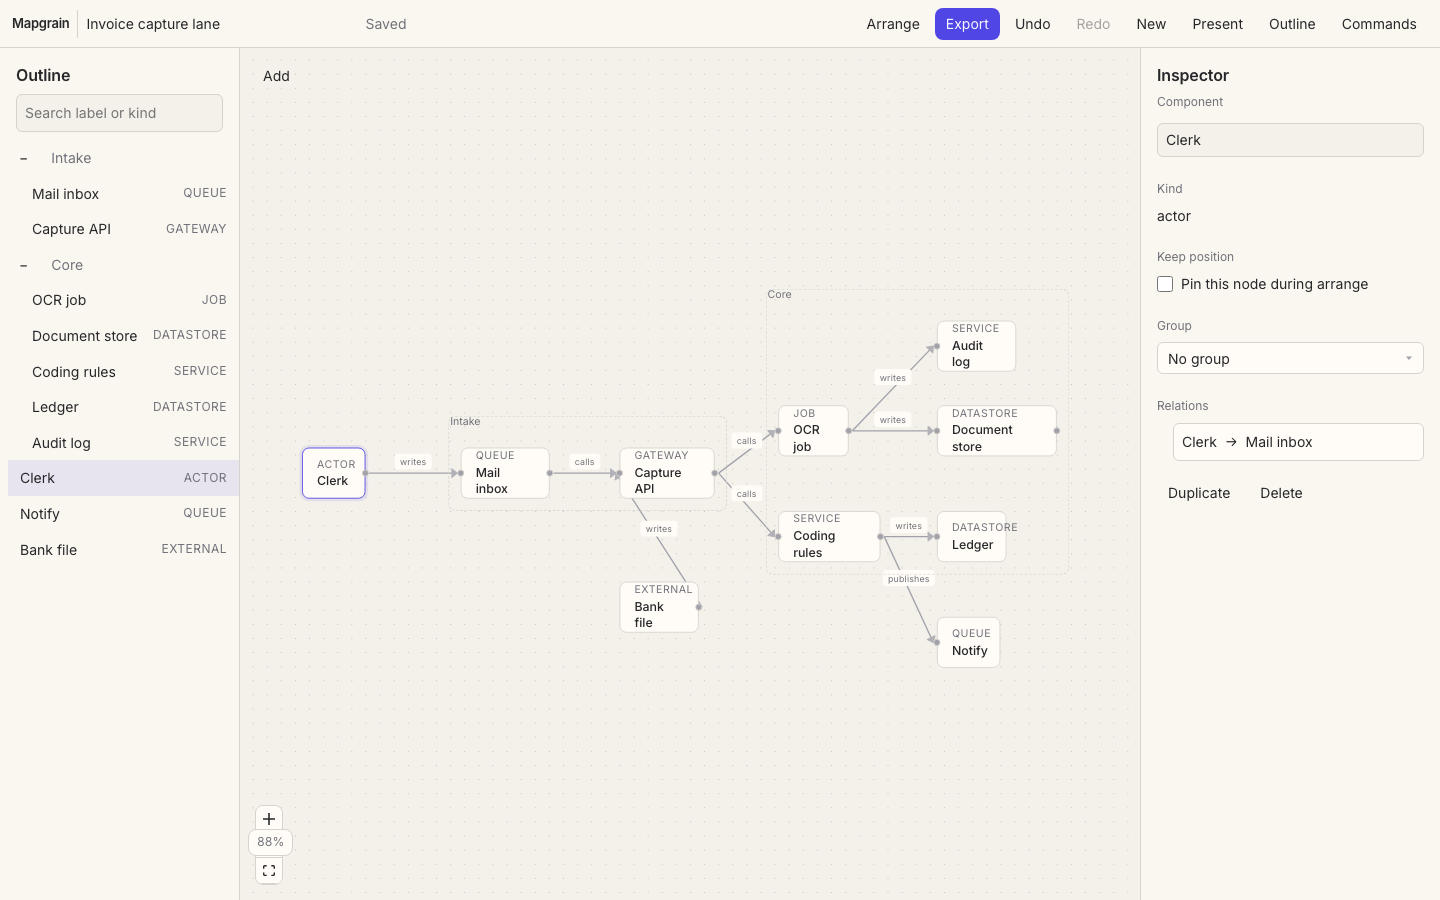
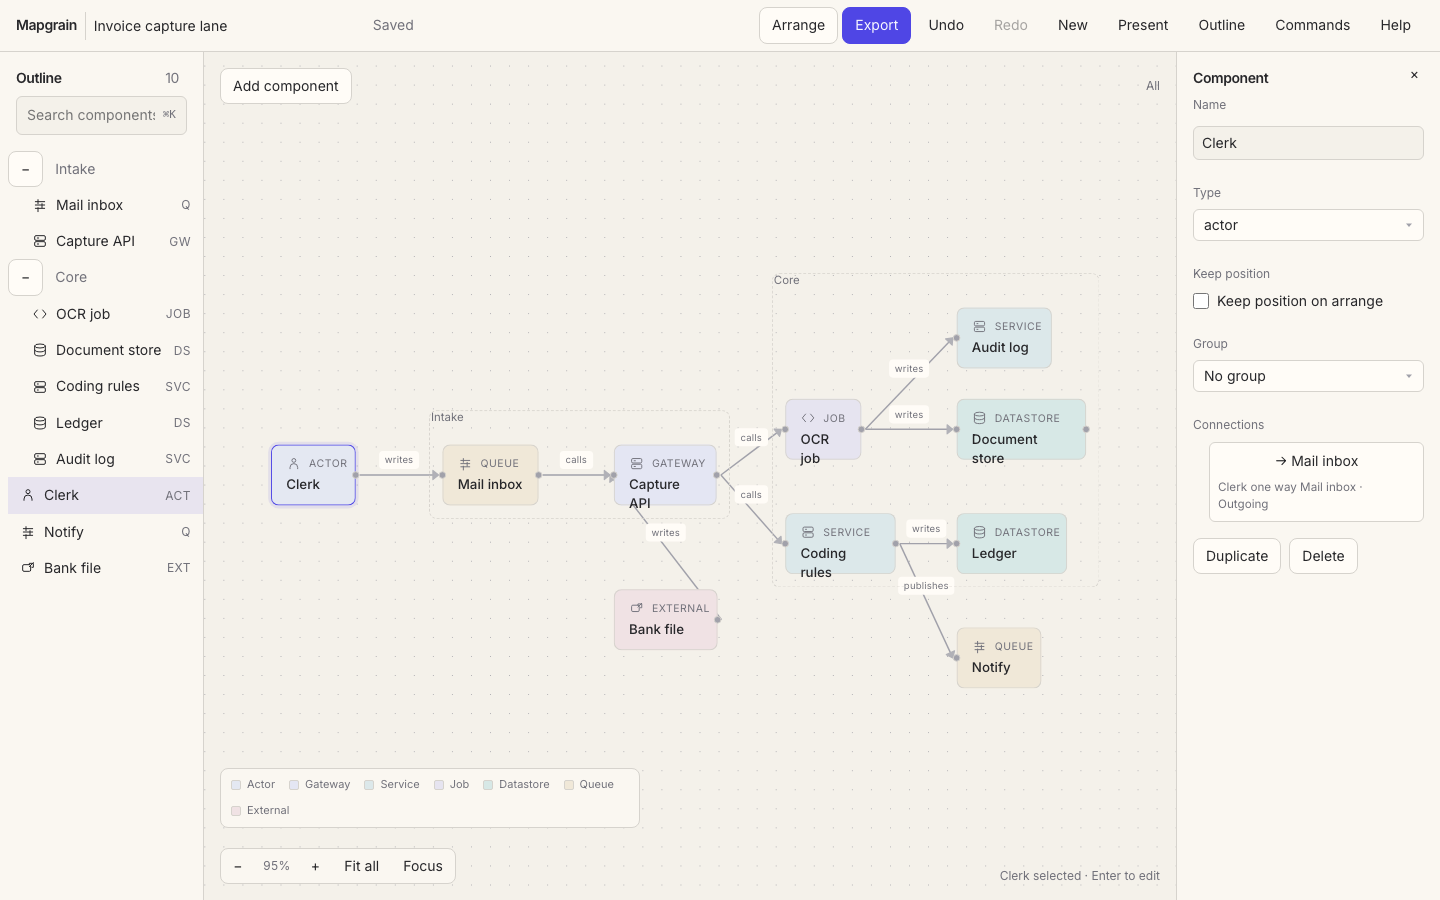
docs: recapture README media from current production (#87)
Stills and gifs show kind fills, Help, and Fit all. CLI receipts label
npx mapgrain@0.2.1 instead of 0.1.0.

diff --git a/apps/editor/tests/capture-media.ts b/apps/editor/tests/capture-media.ts
@@ -239,6 +239,7 @@ async function main(): Promise<void> {
     const hit = viewPage.getByRole("list", { name: "Search results" }).getByRole("button").first();
     if (await hit.isVisible().catch(() => false)) await hit.click();
     await viewPage.waitForTimeout(400);
+    await viewPage.getByRole("button", { name: "More" }).click();
     await viewPage.getByRole("button", { name: "Theme" }).click();
     await viewPage.waitForTimeout(400);
     await viewPage.mouse.move(720, 480);
@@ -264,6 +265,7 @@ async function main(): Promise<void> {
     const cliVideoDir = join(work, "cli");
     await mkdir(cliVideoDir, { recursive: true });
     const receipts = join(work, "receipts.html");
+    const cliVersion = await packageVersion();
     const validated = execFileSync(
       "node",
       ["--experimental-strip-types", join(repoRoot, "packages/cli/src/cli.ts"), "validate", fixture],
@@ -287,7 +289,7 @@ async function main(): Promise<void> {
 <style>body{margin:0;background:#1c1c1f;color:#ececec;font:14px/1.45 ui-monospace,SFMono-Regular,Menlo,monospace}
 main{padding:32px 40px} h1{font:600 16px/1.3 ui-sans-serif,system-ui;margin:0 0 16px}
 pre{white-space:pre-wrap;background:#141416;border:1px solid #2a2a2e;padding:16px;border-radius:8px}</style></head>
-<body><main><h1>npx mapgrain@0.1.0 validate / layout</h1>
+<body><main><h1>npx mapgrain@${cliVersion} validate / layout</h1>
 <pre>${validated.replaceAll("<", "&lt;")}\n\nlayout wrote laid.json</pre></main></body></html>`,
     );
     const receiptServer = await listen(work);

diff --git a/tests/media.test.ts b/tests/media.test.ts
@@ -31,9 +31,12 @@ test("capture manifest records commit, fixture, viewport, and theme", async () =
     commit?: string;
     fixture?: string;
     buildCommand?: string;
+    package?: { name?: string; version?: string };
     artifacts?: Array<{ file: string; viewport?: { width: number; height: number }; theme?: string }>;
   };
   assert.match(manifest.commit ?? "", /^[0-9a-f]{40}$/);
+  assert.equal(manifest.package?.name, "mapgrain");
+  assert.equal(manifest.package?.version, "0.2.1");
   assert.equal(manifest.fixture, "skills/mapgrain/examples/ten-node.json");
   assert.match(manifest.buildCommand ?? "", /@mapgrain\/editor build/);
   const files = new Set((manifest.artifacts ?? []).map((item) => item.file));
@@ -63,4 +66,10 @@ test("README links production media, the feature table, and getting-started", as
   }
   assert.doesNotMatch(readme, /universal agent/i);
   assert.doesNotMatch(readme, /perfect quality/i);
+});
+
+test("capture script labels CLI receipts with the source package version", async () => {
+  const source = await text("../apps/editor/tests/capture-media.ts");
+  assert.match(source, /npx mapgrain@\$\{cliVersion\}/);
+  assert.doesNotMatch(source, /npx mapgrain@0\.1\.0 validate/);
 });

diff --git a/docs/PLAN.md b/docs/PLAN.md
@@ -2,13 +2,12 @@
 
 Mapgrain is a local editor, CLI (`npx mapgrain@0.2.1`), and agent skill. Users make a diagram by hand or through an agent, save JSON, and export SVG/PNG/HTML. No account.
 
-**Status:** shipped through F060. No live slices. Next task id: `F061`. Closed slices: [docs/archive/](archive/). Product facts: [PROJECT.md](PROJECT.md), [FEATURES.md](FEATURES.md), [CAPABILITY.md](CAPABILITY.md).
+**Status:** shipped through F060. Live: F061 README media recapture. Closed slices: [docs/archive/](archive/). Product facts: [PROJECT.md](PROJECT.md), [FEATURES.md](FEATURES.md), [CAPABILITY.md](CAPABILITY.md).
 
 ## Open gaps (not queued)
 
 - Live agent prompt runs
 - Mermaid/draw.io import and hosted sharing
-- README/social media recapture from the F043–F048 production commits
 - Document-kind conversion preview if an existing file is switched
 
 Do not claim those as shipped.

diff --git a/docs/SESSION_HANDOFF.md b/docs/SESSION_HANDOFF.md
@@ -4,14 +4,14 @@ This is a readable view of `docs/handoff.json`. Update decisions, rejected appro
 
 ## Current checkpoint
 
-- Task: none
+- Task: F061
 - Plan: docs/PLAN.md
-- Git: chore/stamp-f060 @ 7e0dcafc5aa094682d4410b0f8cc10b79e9390cc (dirty)
-- Updated: 2026-09-10T11:44:55.353Z
+- Git: feat/recapture-readme-media @ 4d12f16eb35f98d6aee6defb072701220cb95479 (dirty)
+- Updated: 2026-09-10T11:57:49.844Z
 
 ### Next action
 
-Queue F061. Do not start until asked.
+Open draft PR for F061.
 
 ### Decisions
 
@@ -36,8 +36,7 @@ Queue F061. Do not start until asked.
 
 ### Evidence
 
-- https://github.com/ensp1re/mapgrain/pull/85
-- https://github.com/ensp1re/mapgrain/actions/runs/34472624825
+- none
 
 ## Resume
 
